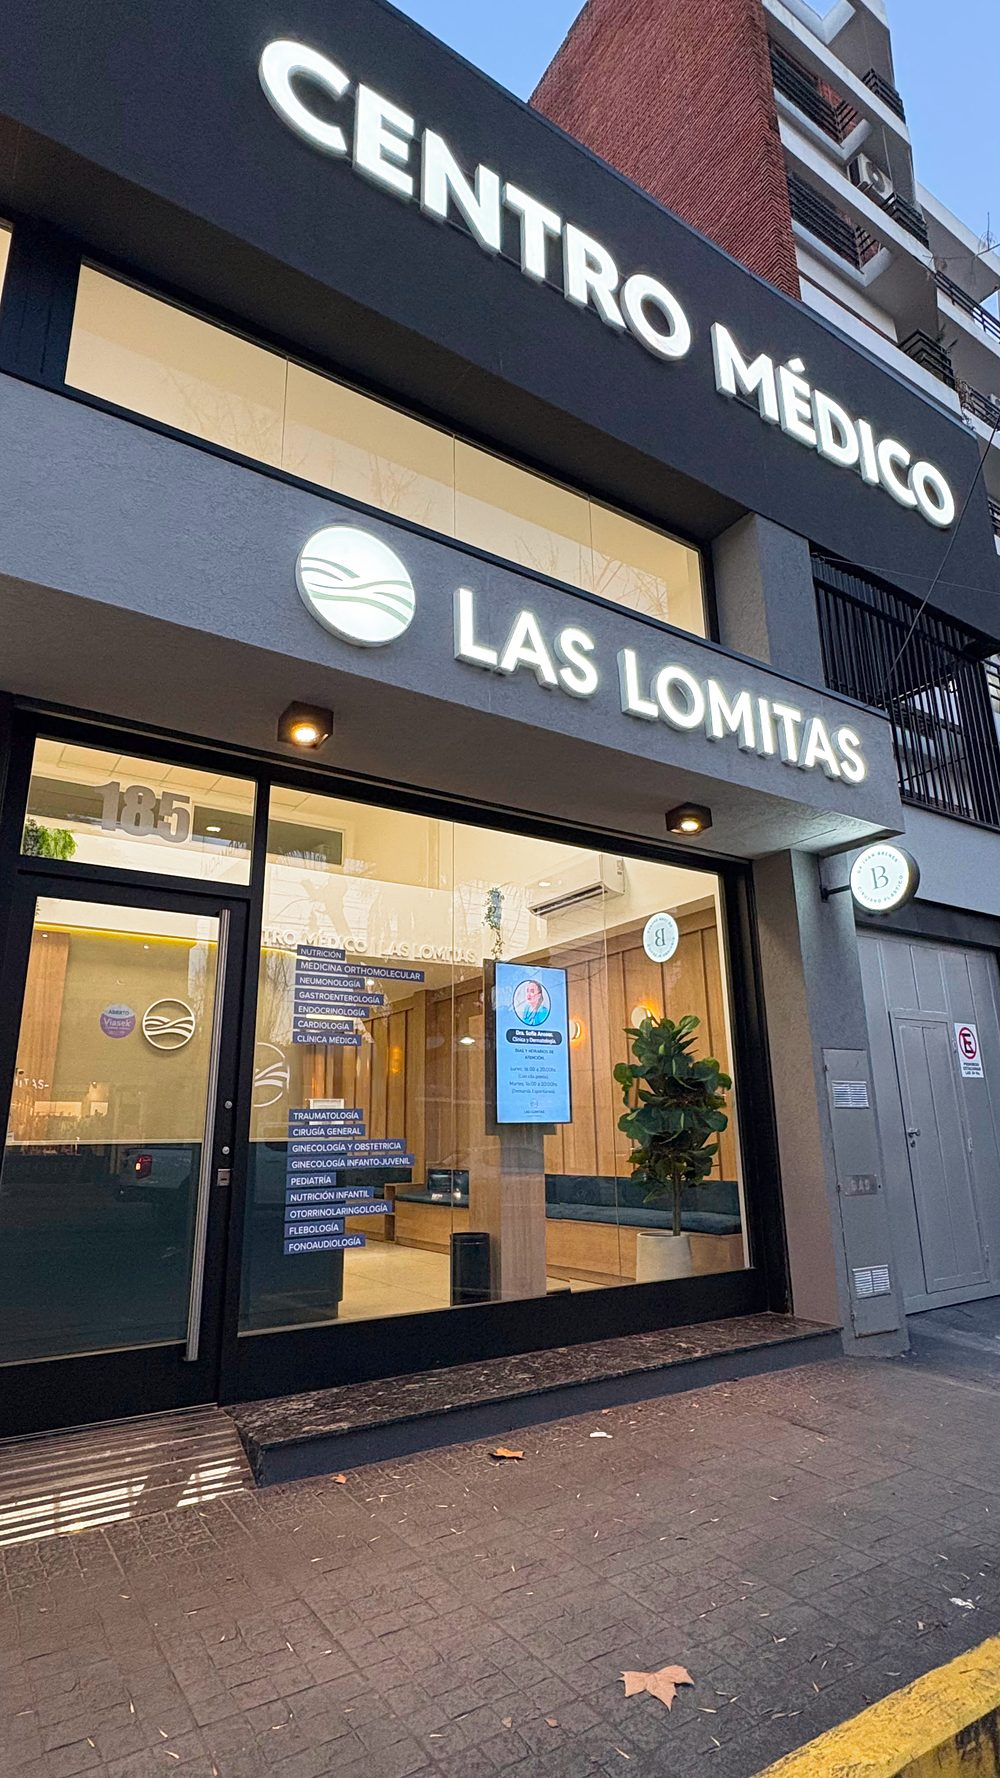
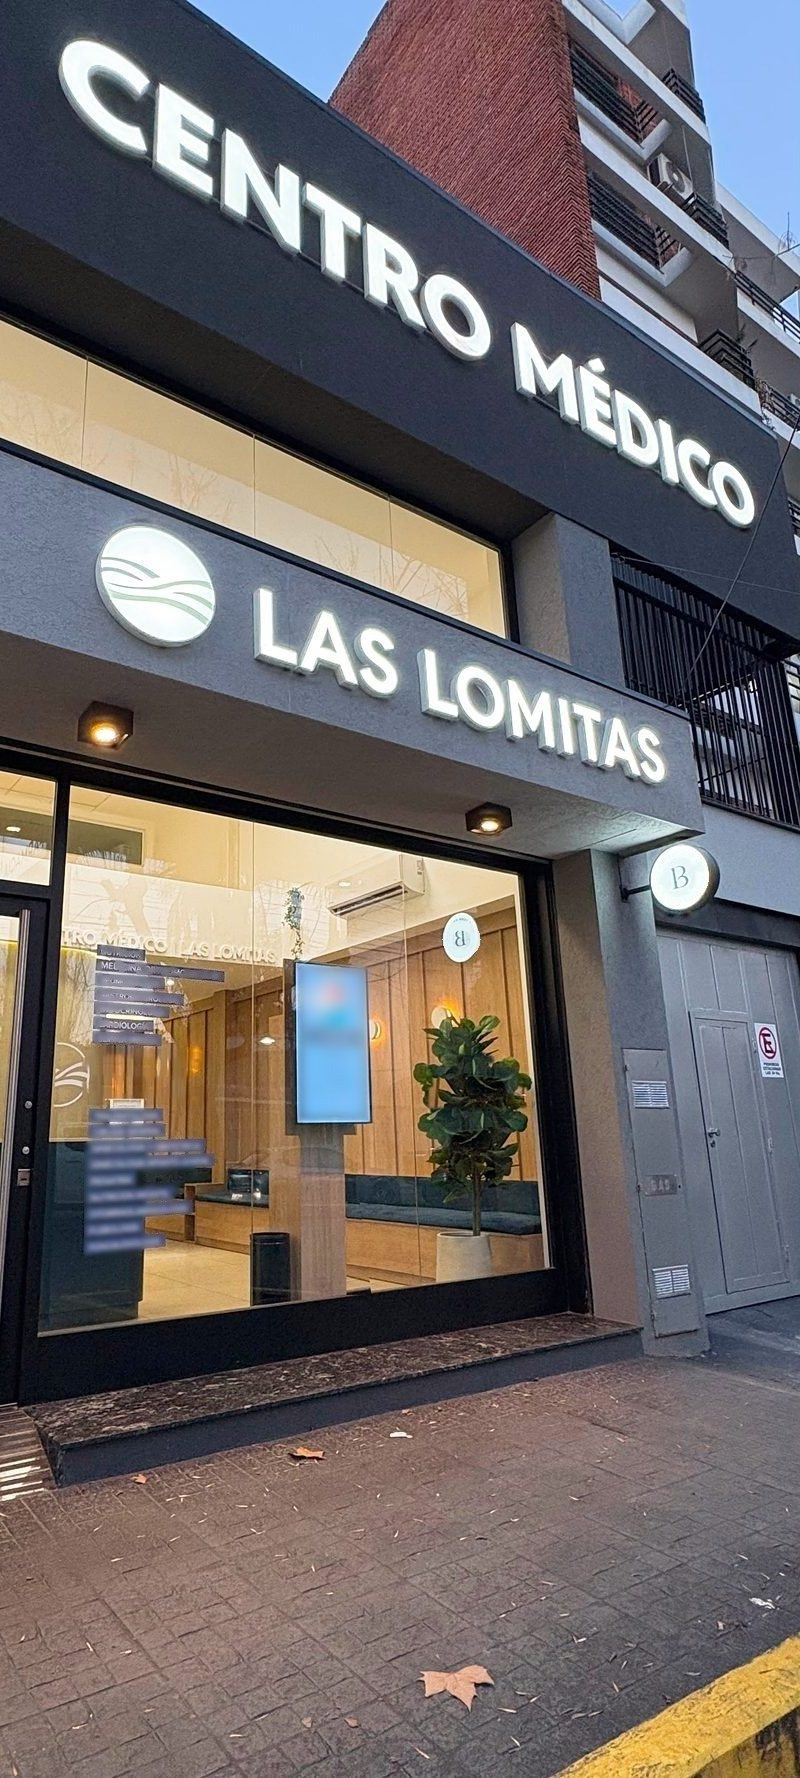
v6: fachada de Lomas retocada, alturas parejas en compu, foco del recorrido y brief

diff --git a/components/sections/Ubicaciones.tsx b/components/sections/Ubicaciones.tsx
@@ -26,7 +26,12 @@ export function Ubicaciones() {
   const reducir = useReducedMotion();
   const pestanas = useRef<(HTMLButtonElement | null)[]>([]);
   const sede = sedes[activa];
-  const cerrarRecorrido = useCallback(() => setRecorrido(null), []);
+  // Al cerrar el recorrido, el foco vuelve al botón que lo abrió
+  const disparador = useRef<HTMLElement | null>(null);
+  const cerrarRecorrido = useCallback(() => {
+    setRecorrido(null);
+    requestAnimationFrame(() => disparador.current?.focus());
+  }, []);
 
   const virtualHref = whatsapp("Hola, quiero coordinar una primera consulta virtual.");
 
@@ -135,7 +140,8 @@ export function Ubicaciones() {
           transition={{ duration: 0.8, ease: easeEditorial }}
           className="grid gap-6 lg:grid-cols-12 lg:gap-8"
         >
-          {/* Piezas del lugar: verticales, lado a lado y enteras (en compu, a la altura de la columna de al lado) */}
+          {/* Piezas del lugar: verticales, lado a lado. En compu no aportan alto propio (van en absolute):
+              la altura la marca la columna de datos y las piezas la llenan, así nunca queda un hueco */}
           <AnimatePresence mode="wait" initial={false}>
             <motion.div key={`piezas-${sede.id}`} {...cambio} className="grid grid-cols-2 gap-3 lg:col-span-7 lg:gap-4">
               {sede.media.map((m) => (
@@ -145,14 +151,21 @@ export function Ubicaciones() {
                       src={m.src}
                       alt={m.alt}
                       loading="lazy"
-                      className="aspect-[9/16] w-full object-cover transition-transform duration-700 hover:scale-[1.02] lg:aspect-auto lg:h-full"
+                      className="aspect-[9/16] w-full object-cover transition-transform duration-700 hover:scale-[1.02] lg:absolute lg:inset-0 lg:aspect-auto lg:h-full"
                       style={{ objectPosition: m.pos }}
                     />
                   ) : (
                     <VideoLoop
                       pieza={m}
                       recorrido={sede.recorrido}
-                      onRecorrido={sede.recorrido ? () => setRecorrido(sede.recorrido!) : undefined}
+                      onRecorrido={
+                        sede.recorrido
+                          ? (boton) => {
+                              disparador.current = boton;
+                              setRecorrido(sede.recorrido!);
+                            }
+                          : undefined
+                      }
                     />
                   )}
                 </figure>
@@ -267,7 +280,7 @@ function VideoLoop({
 }: {
   pieza: Extract<MediaSede, { tipo: "video" }>;
   recorrido?: Recorrido;
-  onRecorrido?: () => void;
+  onRecorrido?: (boton: HTMLButtonElement) => void;
 }) {
   const ref = useRef<HTMLVideoElement>(null);
   const reducir = useReducedMotion();
@@ -318,7 +331,7 @@ function VideoLoop({
         preload="none"
         poster={pieza.poster}
         aria-label={pieza.alt}
-        className="aspect-[9/16] w-full object-cover lg:aspect-auto lg:h-full"
+        className="aspect-[9/16] w-full object-cover lg:absolute lg:inset-0 lg:aspect-auto lg:h-full"
         style={{ objectPosition: pieza.pos }}
       >
         <source src={pieza.src} type="video/mp4" />
@@ -336,7 +349,7 @@ function VideoLoop({
       {recorrido && onRecorrido && (
         <button
           type="button"
-          onClick={onRecorrido}
+          onClick={(e) => onRecorrido(e.currentTarget)}
           aria-haspopup="dialog"
           className="absolute bottom-2.5 left-1/2 inline-flex -translate-x-1/2 items-center gap-2 whitespace-nowrap rounded-full bg-[color:var(--bg-elevated)] px-3.5 py-2 text-[13px] font-medium text-[color:var(--ink)] shadow-[var(--shadow-md)] transition-colors hover:bg-[color:var(--ink)] hover:text-[color:var(--ink-inverse)] sm:bottom-3 sm:px-4 sm:text-sm"
         >
@@ -352,7 +365,6 @@ function VideoLoop({
 function RecorridoVentana({ recorrido, onCerrar }: { recorrido: Recorrido | null; onCerrar: () => void }) {
   useEffect(() => {
     if (!recorrido) return;
-    const previo = document.activeElement as HTMLElement | null;
     document.body.style.overflow = "hidden";
     const onKey = (e: KeyboardEvent) => {
       if (e.key === "Escape") onCerrar();
@@ -361,7 +373,6 @@ function RecorridoVentana({ recorrido, onCerrar }: { recorrido: Recorrido | null
     return () => {
       document.body.style.overflow = "";
       window.removeEventListener("keydown", onKey);
-      previo?.focus?.();
     };
   }, [recorrido, onCerrar]);
 

diff --git a/lib/copy.ts b/lib/copy.ts
@@ -546,8 +546,10 @@ export const ubicaciones = {
       mapa: "https://maps.google.com/maps?q=General%20Bartolom%C3%A9%20Mitre%20185%2C%20Lomas%20de%20Zamora%2C%20Provincia%20de%20Buenos%20Aires&t=&z=16&ie=UTF8&iwloc=&output=embed",
       comoLlegar: "https://www.google.com/maps/dir/?api=1&destination=General%20Bartolom%C3%A9%20Mitre%20185%2C%20Lomas%20de%20Zamora%2C%20Provincia%20de%20Buenos%20Aires",
       turno: "Hola, quiero pedir un turno en la sede de Lomas de Zamora.",
+      // Fachada retocada (sin el cartel del cirujano plástico, la pantalla con otra médica ni la lista de
+      // especialidades del centro) y recortada sin el 185, que en compu quedaba cortado ("85").
       media: [
-        { tipo: "foto", src: "/images/sede-lomas-fachada.jpg", alt: "Fachada del Centro Médico Las Lomitas al atardecer, con el número 185 sobre la puerta", pos: "50% 50%" },
+        { tipo: "foto", src: "/images/sede-lomas-fachada.jpg", alt: "Fachada del Centro Médico Las Lomitas al atardecer, con el cartel encendido", pos: "30% 0%" },
         { tipo: "video", src: "/videos/sede-lomas-loop.mp4", poster: "/images/sede-lomas-loop.jpg", alt: "Recepción y sala de espera de la sede de Lomas de Zamora", pos: "50% 50%" },
       ],
       recorrido: {

diff --git a/brief/fotos.md b/brief/fotos.md
@@ -66,3 +66,14 @@ En las grupales _Q5A2220–2226 aparece también un hombre de anteojos con suét
 > 6. **Una imagen para la portada que no sea "antes y después"**, horizontal y grande (de 2400 px de ancho o más). Por ejemplo, todo el equipo junto (cirujanos, nutricionistas y psicóloga) con espacio libre en el centro para el texto, o una escena de consulta.
 > 7. **Balón gástrico:** si tienen fotos propias, o de la marca con permiso de uso, de la cápsula y el balón en mejor resolución (1000 px o más) y en vertical. Y confirmarnos si las tres imágenes que mandaron se pueden usar en la web.
 > 8. **Opcional:** a Sergio con guardapolvo blanco, para que los tres retratos queden parejos (hoy él está con ambo azul). También fotos reales del equipo en quirófano para el paso "Cirugía", que hoy usa una foto de stock.
+
+## Ronda v7 · Lomas de Zamora (2026-09-30)
+
+Material: `Desktop/FotosNucleo/UltimasFotosyVideos` (8 fotos y 4 videos de WhatsApp, todos de la sede nueva: Centro Médico Las Lomitas, General Bartolomé Mitre 185). Hojas de contactos y recortes en `brief/fotos/v7/`.
+
+| Lugar | Archivo | Original | Por qué | Avisos |
+|---|---|---|---|---|
+| Dónde atendemos · Lomas, pieza 1 (foto) | `public/images/sede-lomas-fachada.jpg` · 800x1778 | "16.00.56" (2268x4032, al atardecer) | Carteles encendidos, se lee "Centro Médico Las Lomitas". | Retocado: el cartel redondo "Dr. Iván Brener · Cirujano plástico" (queda solo la B), el calco con la misma B en la vidriera, la pantalla con otra médica y sus horarios (desenfocada) y la lista de especialidades del centro en el vidrio (desenfocada). Recortado sin el 185: en compu quedaba cortado ("85"). object-position `30% 0%`: arriba se ve el cartel entero y en 1024 px se corta el final de "MÉDICO" antes que el principio de "CENTRO". |
+| Dónde atendemos · Lomas, pieza 2 (video en loop) | `public/videos/sede-lomas-loop.mp4` · 464x832, 7,5 s, 613 KB, sin audio + póster `sede-lomas-loop.jpg` | video "16.00.56 (1)" y comienzo de "16.00.55 (1)" | Recepción, sala de espera y pasillo; cierra con un fundido al primer cuadro. | Resolución de WhatsApp (464 px de ancho): se ve bien al tamaño de la pieza. |
+| Ventana "Ver recorrido" | `public/videos/sede-lomas-recorrido.mp4` · 464x832, 31,6 s, 3 MB, sin audio + póster `sede-lomas-recorrido.jpg` | los 4 videos en orden: llegada, recepción y espera, pasillo, consultorio 3 | Recorrido completo de la llegada al consultorio. | Arranca en la vereda: los carteles del vidrio y el cartel del cirujano aparecen, pero a esa resolución no se leen (revisado cuadro por cuadro). Sin personas. |
+| (sin usar) | `brief/fotos/v7/sede-lomas-interior.jpg` y `-alt` | fotos de recepción 720x1280 | Respaldo del video. | El póster del loop ya muestra la recepción. |

diff --git a/brief/decisiones.md b/brief/decisiones.md
@@ -56,5 +56,14 @@ Lo que pidió o aprobó el cliente (o Fede para este cliente). No se repite en o
 
 - Obras sociales (aviso del equipo vía Fede, 2026-09-29): Medicus reemplaza a Medifé. El equipo nunca mandó el logo de Medicus (no está en FotosNucleo/ObrasSociales), así que se usó el oficial de medicus.com.ar (el SVG de su encabezado) en blanco sobre su azul de marca #002564, con el mismo formato que la tarjeta de OSDE. El mensaje de WhatsApp de la tarjeta dice "Hola, tengo Medicus y quiero consultar qué cubre mi plan.".
 
+## Ronda v7 (para el cliente, "v6") · Lomas de Zamora y bios (2026-09-30, rama v6-lomas-y-bios)
+- Pedido: `brief/material/ajustes-2026-09-29.md` (Maya Vega). Textos: sección "Ronda v7" de `brief/contenido.md`. Fotos y videos: sección "Ronda v7" de `brief/fotos.md`.
+- "Dónde atendemos" pasa a 2 sedes con pestañas (Villa del Parque y Lomas de Zamora). Cada sede: 2 piezas verticales, dirección, mapa, "Pedir turno" (principal, a WhatsApp con la sede en el mensaje) y "Cómo llegar" (secundario, Google Maps). La consulta virtual queda fija debajo. Los links de sedes del pie abren su pestaña.
+- Lomas: fachada al atardecer + video corto en loop (mudo, con pausa, arranca solo al verse, quieto con movimiento reducido) + "Ver recorrido" (ventana con el recorrido completo, con controles). Se muestra "Centro Médico Las Lomitas" (visto en las fotos; se saca con `espacio: null` si el equipo no lo quiere).
+- Retoques de la fachada de Lomas: fuera el cartel del cirujano plástico, la pantalla con otra médica y la lista de especialidades del centro; sin el 185 (en compu quedaba "85").
+- En compu las piezas de la sede no aportan alto propio: las marca la columna de datos, para que nunca quede un hueco entre las dos columnas.
+- Bios de Solange y Débora (Salamón), acortadas al largo de las demás. Tarjeta 04 de "Qué nos diferencia", consulta virtual, SEO, JSON-LD (2 sedes en location; sin medicalSpecialty) e imagen para compartir, por 2 sedes.
+- A decidir por Fede o el equipo: mostrar o no el nombre del centro de Lomas; sumar o no la sede al formulario de contacto (hoy no, porque el botón de cada sede ya la manda escrita).
+
 ## Técnico
 - robots en noindex hasta el lanzamiento real.
